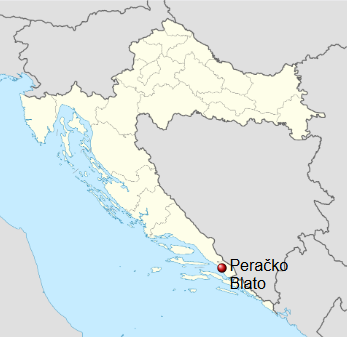
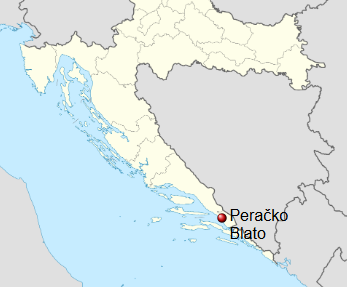
azuriranje

diff --git a/galerija.html b/galerija.html
@@ -314,7 +314,7 @@
         <!-- SLIKA 1 -->
         <article class="galerija-slika" data-kategorija="selo">
             <img
-                src="slika_2.jpeg"
+                src="slika1.jpeg"
                 alt="Peračko Blato iz zraka"
                 loading="lazy">
 
@@ -329,7 +329,7 @@
         <!-- SLIKA 2 -->
         <article class="galerija-slika" data-kategorija="priroda">
             <img
-                src="OVDJE_STAVI_POVEZNICU_SLIKE_2"
+                src="priroda2.jpeg"
                 alt="Priroda oko Peračkog Blata"
                 loading="lazy">
 
@@ -358,7 +358,7 @@
         <!-- SLIKA 5 -->
         <article class="galerija-slika" data-kategorija="priroda">
             <img
-                src="OVDJE_STAVI_POVEZNICU_SLIKE_5"
+                src="slika_2.jpeg"
                 alt="Krajolik u okolici sela"
                 loading="lazy">
 
@@ -388,7 +388,7 @@
         <!-- SLIKA 9 -->
         <article class="galerija-slika" data-kategorija="priroda">
             <img
-                src="plaza.jpg"
+                src="plaza2.jpeg"
                 alt="Prirodni krajolik"
                 loading="lazy">
 

diff --git a/o-nama.html b/o-nama.html
@@ -136,7 +136,7 @@
         </div>
 
         <div style="flex:1 1 400px; min-width:0;">
-            <img src="slike/peracko-blato-mapa.jpg" alt="Položaj Peračkog Blata"
+            <img src="karta1.png" alt="Položaj Peračkog Blata"
                  style="width:100%; height:400px; object-fit:cover; display:block; border-radius:5px 40px 5px 40px; box-shadow:12px 12px 0 #d9cba9;">
         </div>
     </section>

diff --git a/index.html b/index.html
@@ -352,7 +352,7 @@
 
             <article class="vijest-blato">
                 <!-- POVEZNICA ZA DRUGU SLIKU -->
-                <img src="POVEZNICA_SLIKE_2"
+                <img src="priroda.jpeg"
                      alt="Priroda našega kraja">
 
                 <div class="tekst-vijesti">
